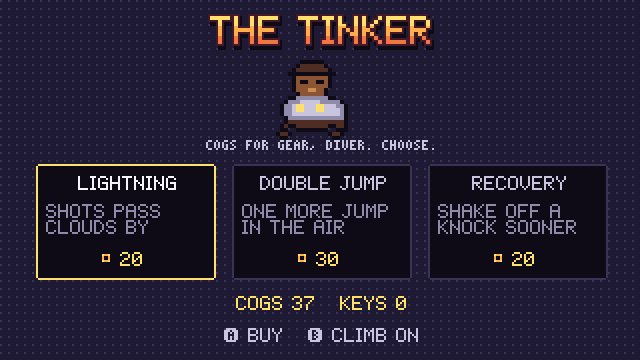
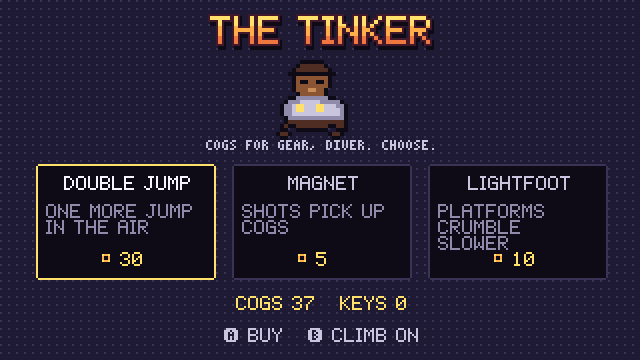
Skywell: design doc, README and shots for the Velgress rules
The mechanics checklist is rewritten from the sources with each fact's
reference; readings kept to numbers the sources don't give.

diff --git a/docs/games/07-skywell.md b/docs/games/07-skywell.md
@@ -5,9 +5,9 @@
 ## Tribute to
 
 **Velgress** (UFO 50 game #7, Mossmouth). The rules were researched from
-text only: the community wiki, written reviews and forum/search summaries
-(listed under Sources). No UFO 50 images, video, sprites, music or text were
-used as references.
+text only: the community wiki, Steam guides and threads, and written
+reviews (listed under Sources). No UFO 50 images, video, sprites, music or
+text were used as references.
 
 **Map type: random.** Velgress builds its pit anew every run, so SKYWELL
 does too. Structure copied from the text; generator rules ours:
@@ -15,74 +15,83 @@ does too. Structure copied from the text; generator rules ours:
 | Structure | Velgress (text sources) | SKYWELL |
 |---|---|---|
 | Levels | 3, plus a locked 4th [W] | 3, plus a locked 4th |
-| Floors | 30 per level, marked on the left side of the screen [SS]; counted on (floor 104 is in level 4) [W] | 30 per level, numbered 1-120 on the left wall |
-| Shop | after each level [W], [SS] | the Tinker's cart after each level |
+| Floors | 30 per level ("sublevels") [W], numbered on the left of the play area [MM] | 30 per level, numbered 1-120 on the left wall |
+| Shop | after each of levels 1-3, a choice of 3 items [W], [CH] | the Tinker's cart, three items |
 | Key bird | on the 12th floor of levels 1-3, for 15 seconds [W] | the Keeper Owl, floor 12 (42, 72) |
 | Final boss | appears on floor 104 and climbs with you [W] | the Well Eye, floor 104 |
-| Random | levels are randomly generated [W], [PB] | a fresh seed every run |
+| Random | levels are randomly generated [W], [PB], [MM] | a fresh seed every run |
+
+### What each level is made of
+
+| Level | Velgress (text sources) | SKYWELL |
+|---|---|---|
+| 1 | clouds, wooden boxes and bricks, each lasting longer than the last [IG]; coin blocks [W]; bats, the level's only creature [W] | the Roots: clouds, crates, bricks, coin blocks, a star block, bats hanging under platforms |
+| 2 | no creatures [W]; TNT blocks [IG], [CH]; cloud mines [CH]; zappers (level 2 only) [W] | the Sparkworks |
+| 3 | bubbles (level 3 only) [W]; fewer platforms, so fish are the platforms [W]; jellies, squids [W] | the Sky Reef |
+| 4 | blocks, clouds, "smoke bombs" (cloud mines) and bounce platforms [BV]; metal (level 4 only) [W]; the mines return [IG] | the Eye |
 
 ### Generator rules (ours)
 
 - The shaft is 13 tiles (16 px) wide between two walls. A floor is 32 px
-  tall; each floor gets one to three platforms, 2-5 tiles wide, placed so
-  that at least one is within a single jump of a platform on the floor
-  below.
-- Platform types are drawn per level from the table under "Platforms";
-  harder types grow more common as the floor number rises.
-- Coins float above about one platform in three; one coin block every few
-  floors.
-- Level 1 wakes a bat every few floors. Level 2 has no creatures [SS].
-  Level 3 sends minnows, jellies and one squid at a time.
-- A star block turns up about once per level.
+  tall; each floor gets one to three platforms (one or two in the reef),
+  2-4 tiles wide, and the first is always within a jump of one on the
+  floor below and never a trap.
+- Coins float above about one platform in three.
+- A star block turns up once per level.
+- In the Roots about one floor in four has a bat hanging under a platform.
 
 ## Mechanics checklist
 
 | Mechanic | How SKYWELL does it | Source |
 |---|---|---|
-| Climb out | the goal of each level is its 30th floor | [W] |
-| The roller | a spiked drum sits at the bottom of the screen and only moves up when Kip climbs above the middle of the screen; touching it is the only way to die | [W], [SS], [LZ] |
-| One life | a death ends the run; the next run is a new pit | [W], [PB] |
-| Stun | every foe and hazard stuns Kip and knocks her about instead of hurting her | [W], [LZ] |
-| Crumbling | platforms break soon after she lands on them | [LZ], [W] |
-| Jumping | a jump and one more in mid-air; each Double Jump bought adds another; holding jump hops again on landing | [W] |
-| Shooting | a gun that fires in four directions at a fixed rate, held or mashed | [W] |
-| Clouds | flimsy; shots pass through and break them | [W] |
-| Crates | break 0.2 s after being shot or 0.3 s after being stood on | [W] |
-| Rocks | tough; break about a second after being stood on or shot | [W] |
-| Star blocks | touching one makes her invincible and shoots her up about six floors | [W] |
-| Coin blocks | tough; shooting them knocks coins out | [W] |
-| Cloud mines | stun on touch; shot, they spread into a row of safe clouds | [W] |
-| Bomb platforms | standing on one arms a mine that later bursts into shots | [W] |
-| Zappers (level 2) | two sparking pillars; the block between them can be stood on for good | [W] |
-| Bubbles (level 3) | weak platforms like clouds | [W] |
-| Metal (level 4) | slide side to side; safe from above, stun from below | [W] |
-| Bats (level 1) | asleep until she comes near, then give chase; one hit | [W], [SC] |
-| Level 2 | no creatures | [SS] |
-| Minnows (level 3) | swim side to side; good to stand on | [W] |
-| Jellies (level 3) | split into two small ones when shot | [W] |
-| Squids (level 3) | drop from above one at a time down to the roller; she can bounce off them | [W] |
-| Coins | scattered through the pit; spent in the shop | [W], [SS] |
-| Shop | after each level; a few of the six items are on offer each time | [W], [PB] |
-| Items | Recovery 20 (shorter stun), Power 15 (stronger shots), Double Jump 30 (one more mid-air jump), Lightfoot 10 (platforms crumble slower), Magnet 5 (shots collect coins), Lightning 20 (shots don't break clouds); the first four stack | [W] |
-| Keeper bird | on floor 12 of levels 1-3 it flies near the top for 15 s; shot enough, it drops a key and flees; if it gets away, it stops coming | [W] |
+| Climb out | reach the top of each level's 30th floor | [W] |
+| Controls | D-pad runs; A jumps, higher the longer it's held, steerable in the air; B shoots | [MM] |
+| Double jump | A again in the air; out of jumps, Kip's suit turns red | [MM] |
+| Jumps reset | on landing, and when bouncing off a creature | [MM], [W] |
+| Hop on landing | holding A jumps again the instant she lands | [W] |
+| The gun | rapid-fire, short range; fires the way she faces, or straight up or down; same rate held or tapped | [MM], [W] |
+| The Grinder | always at the foot of the screen; it only rises when Kip climbs above the middle of the screen, and never goes down; touching it is the only way to die | [W], [CH], [SC], [BW], [LZ] |
+| One life | a death ends the run; A goes straight back into a new pit | [W], [LZ] |
+| Knocks | creatures and hazards never hurt: they fling her sideways out of control for a moment | [W], [MM], [BW], [RC] |
+| After a knock | the knock costs her standing jump but not her jump in the air: she can jump as soon as she comes round | [IG], [CH], [SR] |
+| Bouncing | every creature is safe to land on: she bounces off it with her jumps back, higher if A is held | [W], [IG], [CH] |
+| Crumbling | every platform crumbles after she lands: clouds at once, then boxes, then bricks | [MM], [BW], [IG] |
+| Clouds | break at once; shots break them and fly on through | [W], [IG] |
+| Crates | break 0.2 s after a shot, 0.3 s after landing | [W] |
+| Bricks (rocks) | break about a second after landing or a shot | [W] |
+| Coin blocks | durable; every hit knocks out a coin, and the first hit starts its crumbling | [W], [IG] |
+| Star blocks | land on one and she shoots up, untouchable, for up to about six floors while A is held | [W], [CH] |
+| Cloud mines | shot, or bumped, they burst into a row of clouds; bumping one also knocks her | [W], [CH] |
+| TNT blocks | her weight pushes the plunger down; a moment later it fires three shots, up and to both diagonals; the Grinder sets them off too | [W], [IG], [CH] |
+| Zappers (level 2) | a middle block with two electrified bars, a five-tile wall across or upright; a shot on the middle block turns it round | [W], [IG] |
+| Bubbles (level 3) | flimsy like clouds; Lightning doesn't protect them | [W], [IG] |
+| Metal (level 4) | glides side to side; landing on it bounces her up with her jumps back; from below it knocks her; shots bounce off, and it flashes | [W], [BV], [CH] |
+| Bats (level 1) | asleep until she comes close or passes underneath, then they chase her; one hit pops them; landing on one pops it; she can outclimb them and leave them to the Grinder | [W], [CH], [BW], [SR] |
+| Level 2 | no creatures | [W] |
+| Fish (level 3) | swim side to side; good to stand on | [W], [CH] |
+| Jellies (level 3) | fast; split into two small ones when shot or landed on | [W], [CH], [IG] |
+| Squids (level 3) | one at a time; a mark shows where it will drop; it lands on the Grinder and sits there a moment, a last thing to bounce on | [W], [IG] |
+| Coins | scattered through the pit, counted top right; spent in the shop | [W], [MM] |
+| Shop | after levels 1-3, three of the six items | [W], [CH] |
+| Items | Recovery 20 (shorter knocks), Power 15 (breaks terrain and hurts bosses faster), Double Jump 30 (one more jump in the air), Lightfoot 10 (platforms she stands on break more slowly), Magnet 5 (shots collect coins), Lightning 20 (shots don't break clouds, still break bubbles); the first four stack | [W] |
+| Keeper bird | on floor 12 of levels 1-3 it flies near the top of the screen for 15 s without attacking; shot enough, it drops a key and flees; if it gets away it stops coming | [W] |
 | Level 4 | opens only with all three keys | [W] |
-| Final boss | on floor 104 she climbs with Kip, the eye firing small shots and the two hands dropping lightning; the hands can be shot off; the eye must be shot to win; she must be beaten before the exit counts | [W] |
-| Best height | a dotted line marks the highest point reached | [SC] |
+| Final boss | on floor 104 she climbs with Kip: the eye fires small shots at her, each hand drops lightning straight down; the hands can be shot off; the eye must be shot to win; she must be beaten before the exit counts | [W] |
+| Best height | a dotted line marks the highest floor ever reached | [MM], [SC] |
 
 ### Readings we had to choose
 
-- Kip runs 1.4 px/frame; a jump rises about 44 px (a floor and a bit);
-  mid-air jumps rise about 32.
-- Shots every 9 frames, 5 px/frame, reaching about 110 px. Power adds one
-  point of damage per purchase.
-- Stun lasts 36 frames, 8 fewer per Recovery (never under 12), then 30
+The sources give no numbers for these, so they are ours:
+
+- Kip runs 1.4 px/frame; a full jump rises 44 px (a floor and a bit), a jump
+  in the air 32.
+- A shot every 10 frames (so a coin block gives up to five coins before it
+  goes), 5 px/frame, reaching 110 px.
+- A knock lasts 24 frames, 5 fewer per Recovery (never under 9), then 40
   frames of blinking safety.
-- Clouds last 12 frames once stood on; Lightfoot adds half again per
-  purchase to every crumble timer.
-- The shop shows three items, chosen at random; Magnet and Lightning can
-  only be bought once.
+- Bats fly 0.75 px/frame, slower than Kip runs or climbs. TNT goes off
+  60 frames after the plunger goes down.
 - The Keeper Owl takes 14 hits. The Well Eye has 60, each hand 14.
-- Coins: floating ones are worth 1, a coin block gives 1 per hit up to 6.
 
 ## What is ours
 
@@ -100,7 +109,7 @@ does too. Structure copied from the text; generator rules ours:
 
 Only the platform needs every UFO 40 cartridge has:
 
-- the START pause menu;
+- the START pause menu, and a how-to-play page on SELECT at the title;
 - saving: the best floor, most cogs and most keys are kept (as Velgress
   tracks); a run in progress is not saved, as in the original;
 - the three UFO 40 goals, which replicate Velgress's own three:
@@ -115,44 +124,78 @@ Only the platform needs every UFO 40 cartridge has:
 
 | Input | Action |
 |---|---|
-| D-pad | run; aim up or down |
-| A | jump (again in mid-air; hold to hop on landing) |
-| B | shoot (hold or tap; up/down + B shoots up/down) |
+| D-pad | run; hold up or down to aim |
+| A | jump (hold for height; hold to hop again on landing) |
+| A in the air | jump again |
+| B | shoot (down only in the air) |
 | START | pause |
+| SELECT (title) | how to play |
 
 ## Sources
 
-- [W] UFO 50 Wiki (Miraheze), "Velgress": controls, the roller, stun, the
-  gun, jumps, every platform type and its timings, enemies per level,
-  Cavian and the keys, the shop items and prices, Charkas, the levels and
-  floors, goals. https://ufo50.miraheze.org/wiki/Velgress
-- [SS] Search summaries of the Steam guides ("Velgress How To Cherry", "The
-  missing manuals"): the roller only moves when you go above the middle of
-  the screen, floor markers on the left, 30 floors a level, no enemies on
-  level 2, a shop at the end of each stage.
-- [LZ] Lizstar's Trashcan, "UFO 50 Retrospective Part 7": floors crumble as
-  you land, only the pit kills, three mini bosses that flee, four levels
-  and a shop.
-  https://lizstar64.github.io/reviews/2024/10/09/UFO50-7.html
+- [W] UFO 50 Wiki (Miraheze), "Velgress": controls, hop on landing, the
+  gun, the Spike Roller, knocks, bouncing on enemies, every platform type
+  and its timings, enemies per level, Cavian and the keys, the shop items
+  and prices, Charkas, levels and floors, goals.
+  https://ufo50.miraheze.org/wiki/Velgress
+- [MM] Steam guide "The missing manuals - How to play UFO 50 games":
+  controls, the double jump turning her red, jumps resetting on landing,
+  the gun's aim, fragile blocks, being flung, floor numbers, the dotted
+  line, the coin counter, the shop.
+  https://steamcommunity.com/sharedfiles/filedetails/?id=3350227767
+- [CH] Steam guide "Velgress How To Cherry": the roller moves when you go
+  above the middle of the screen; recovering after a hit with the double
+  jump; star blocks safer holding jump; level-1 monsters only trigger
+  under or close to them and die in one hit; red TNT blocks and blinking
+  cloud mines in level 2; fish, jellies; grey level-4 blocks that flash;
+  the birds and keys; a choice of 3 upgrades.
+  https://steamcommunity.com/sharedfiles/filedetails/?id=3343451670
+- [IG] Steam guide "Iggy's compiled notes while cherrying every game in
+  UFO50": landing on enemies bounces you, a hit steals your first jump,
+  level-1 clouds / boxes / bricks, the 5-tile electric wall, jellies
+  splitting when jumped on, squids dropping from a mark onto the spikes,
+  coin blocks' timer, TNT plungers and the three-shot spread, mines
+  returning in level 4, "you have far more time than you think".
+  https://steamcommunity.com/sharedfiles/filedetails/?id=3345726476
+- [BV] Steam thread "Beat Velgress!": level 4's blocks, clouds, smoke bombs
+  and bounce platforms; the boss.
+  https://steamcommunity.com/app/1147860/discussions/0/4852155152088633016/
+- [BW] Bloomed Wings, "UFO 50's Velgress is simple perfection": the screen
+  keeps Alpha in the centre; enemies send her flying, stunned for a moment;
+  bouncing refreshes the air jump; fast climbing leaves enemies behind;
+  clouds vanish almost at once.
+  https://bloomedwings.com/2025/08/21/ufo-50s-velgress-is-simple-perfection-and-perfect-simplicity/
 - [SC] Static Canvas, "The UFO 50 Diaries: Velgress": the roller only moves
-  when you do, bats, a dotted line at your highest point.
+  when you do, bats, the dotted line.
   https://staticcanvas.substack.com/p/the-ufo-50-diaries-velgress
+- [LZ] Lizstar's Trashcan, "UFO 50 Retrospective Part 7": only the pit
+  kills, everything else stuns and throws you; press A to go straight back
+  in; four levels and a shop.
+  https://lizstar64.github.io/reviews/2024/10/09/UFO50-7.html
 - [PB] Popcar's blog, "Reviewing Every Single UFO 50 Game": random levels,
-  coins and a shop between stages, the shop's selection varies.
+  coins and a shop between stages.
   https://popcar.bearblog.dev/reviewing-every-ufo50-game/
+- [RC] Record Crash, "Game Review: UFO 50": a hit takes control away and
+  you hope to land on a cloud.
+  https://recordcrash.substack.com/p/game-review-ufo-50
+- [SR] Search-engine summaries (text only) of guides: bats knock you
+  sideways and steal your first jump, so jump as the stun runs out; landing
+  on top of bats removes them.
 
 ## Progress
 
 - Built: `src/games/skywell/` (game, art, audio), slot 07.
-- Tests: `tests/sw_01` … `sw_14`: the start and the generator's
-  reachability check, jumps and extra jumps, crumbling and Lightfoot,
-  shooting each platform type, stun and Recovery, the one-way camera and
-  the Grinder, star blocks, mines and bombs, the Keeper Owl and its key,
-  the shop, all three goals and the fourth level's Well Eye, saving, the
-  level-3 creatures and the level-2/4 hazards.
-- A demo climber (`cheat autoplay`, used only by scripts) climbs generated
-  pits for the README GIF; with seed 6 it reaches floor 28 of 30, which
-  doubles as a sanity check that generated levels can be climbed.
+- Tests: `tests/sw_01` … `sw_17`: the start, the level-1 mix and a quick
+  restart, jumps, crumbling and Lightfoot, shooting every platform type,
+  bats waking and chasing and knocks with the jump in the air left, the
+  one-way camera and the Grinder, star blocks, cloud mines and TNT, the
+  Keeper Owl and its key, the shop, all three goals and the Well Eye,
+  saving, the reef's creatures, metal and zappers, stomping and
+  shooting bats and leaving them to the Grinder. `sw_16` and `sw_17` climb
+  all of level 1 on two different pits with plain button presses only.
+- A demo climber (`cheat autoplay`, used only by scripts) looks ahead and
+  picks its landings; `cheat botlog` prints its presses as script lines,
+  which is how `sw_16` and `sw_17` were recorded.
 - Media: `docs/shots/skywell.gif`, `skywell_title.png`, `skywell_climb.png`,
   `skywell_reef.png`, `skywell_eye.png`, `skywell_shop.png`
   (`tools/shots/07_skywell.ufs`).

diff --git a/README.md b/README.md
@@ -204,12 +204,17 @@ the top.
   <img src="docs/shots/skywell_eye.png" width="320" alt="The Well Eye">
 </p>
 
-- **Plays like Velgress:** every run is a new shaft. Platforms crumble soon
-  after you land. A spiked roller follows you up and is the only thing that
-  can kill you; every other hazard just stuns. You double jump, shoot in four
-  directions and collect coins for the shop between levels. Shoot down the
-  bird on each level's 12th floor for a key, and with all three keys a fourth
-  level opens with a final boss.
+- **Plays like Velgress:** every run is a new shaft, and a spiked roller at
+  the foot of the screen rises whenever you climb past the middle. It is
+  the only thing that can kill you: creatures and hazards just knock you
+  flying for a moment, and you come round with your jump in the air still
+  to use. Every platform crumbles soon after you land, and you can bounce
+  off any creature's head. You double jump, shoot the way you face or
+  straight up or down, and spend coins in a shop between levels.
+- **Level by level:** bats that wake when you pass under them, then TNT,
+  cloud mines and zappers, then bubbles, fish, jellies and squids, then
+  bouncing metal. Shoot down the bird on each level's 12th floor for a key;
+  with all three keys a fourth level opens with a final boss.
 - **Ours:** Kip the scrap-diver, the Grinder, the Roots, the Sparkworks, the
   Sky Reef, the Tinker's cart, the Keeper Owl and the Well Eye.
 
